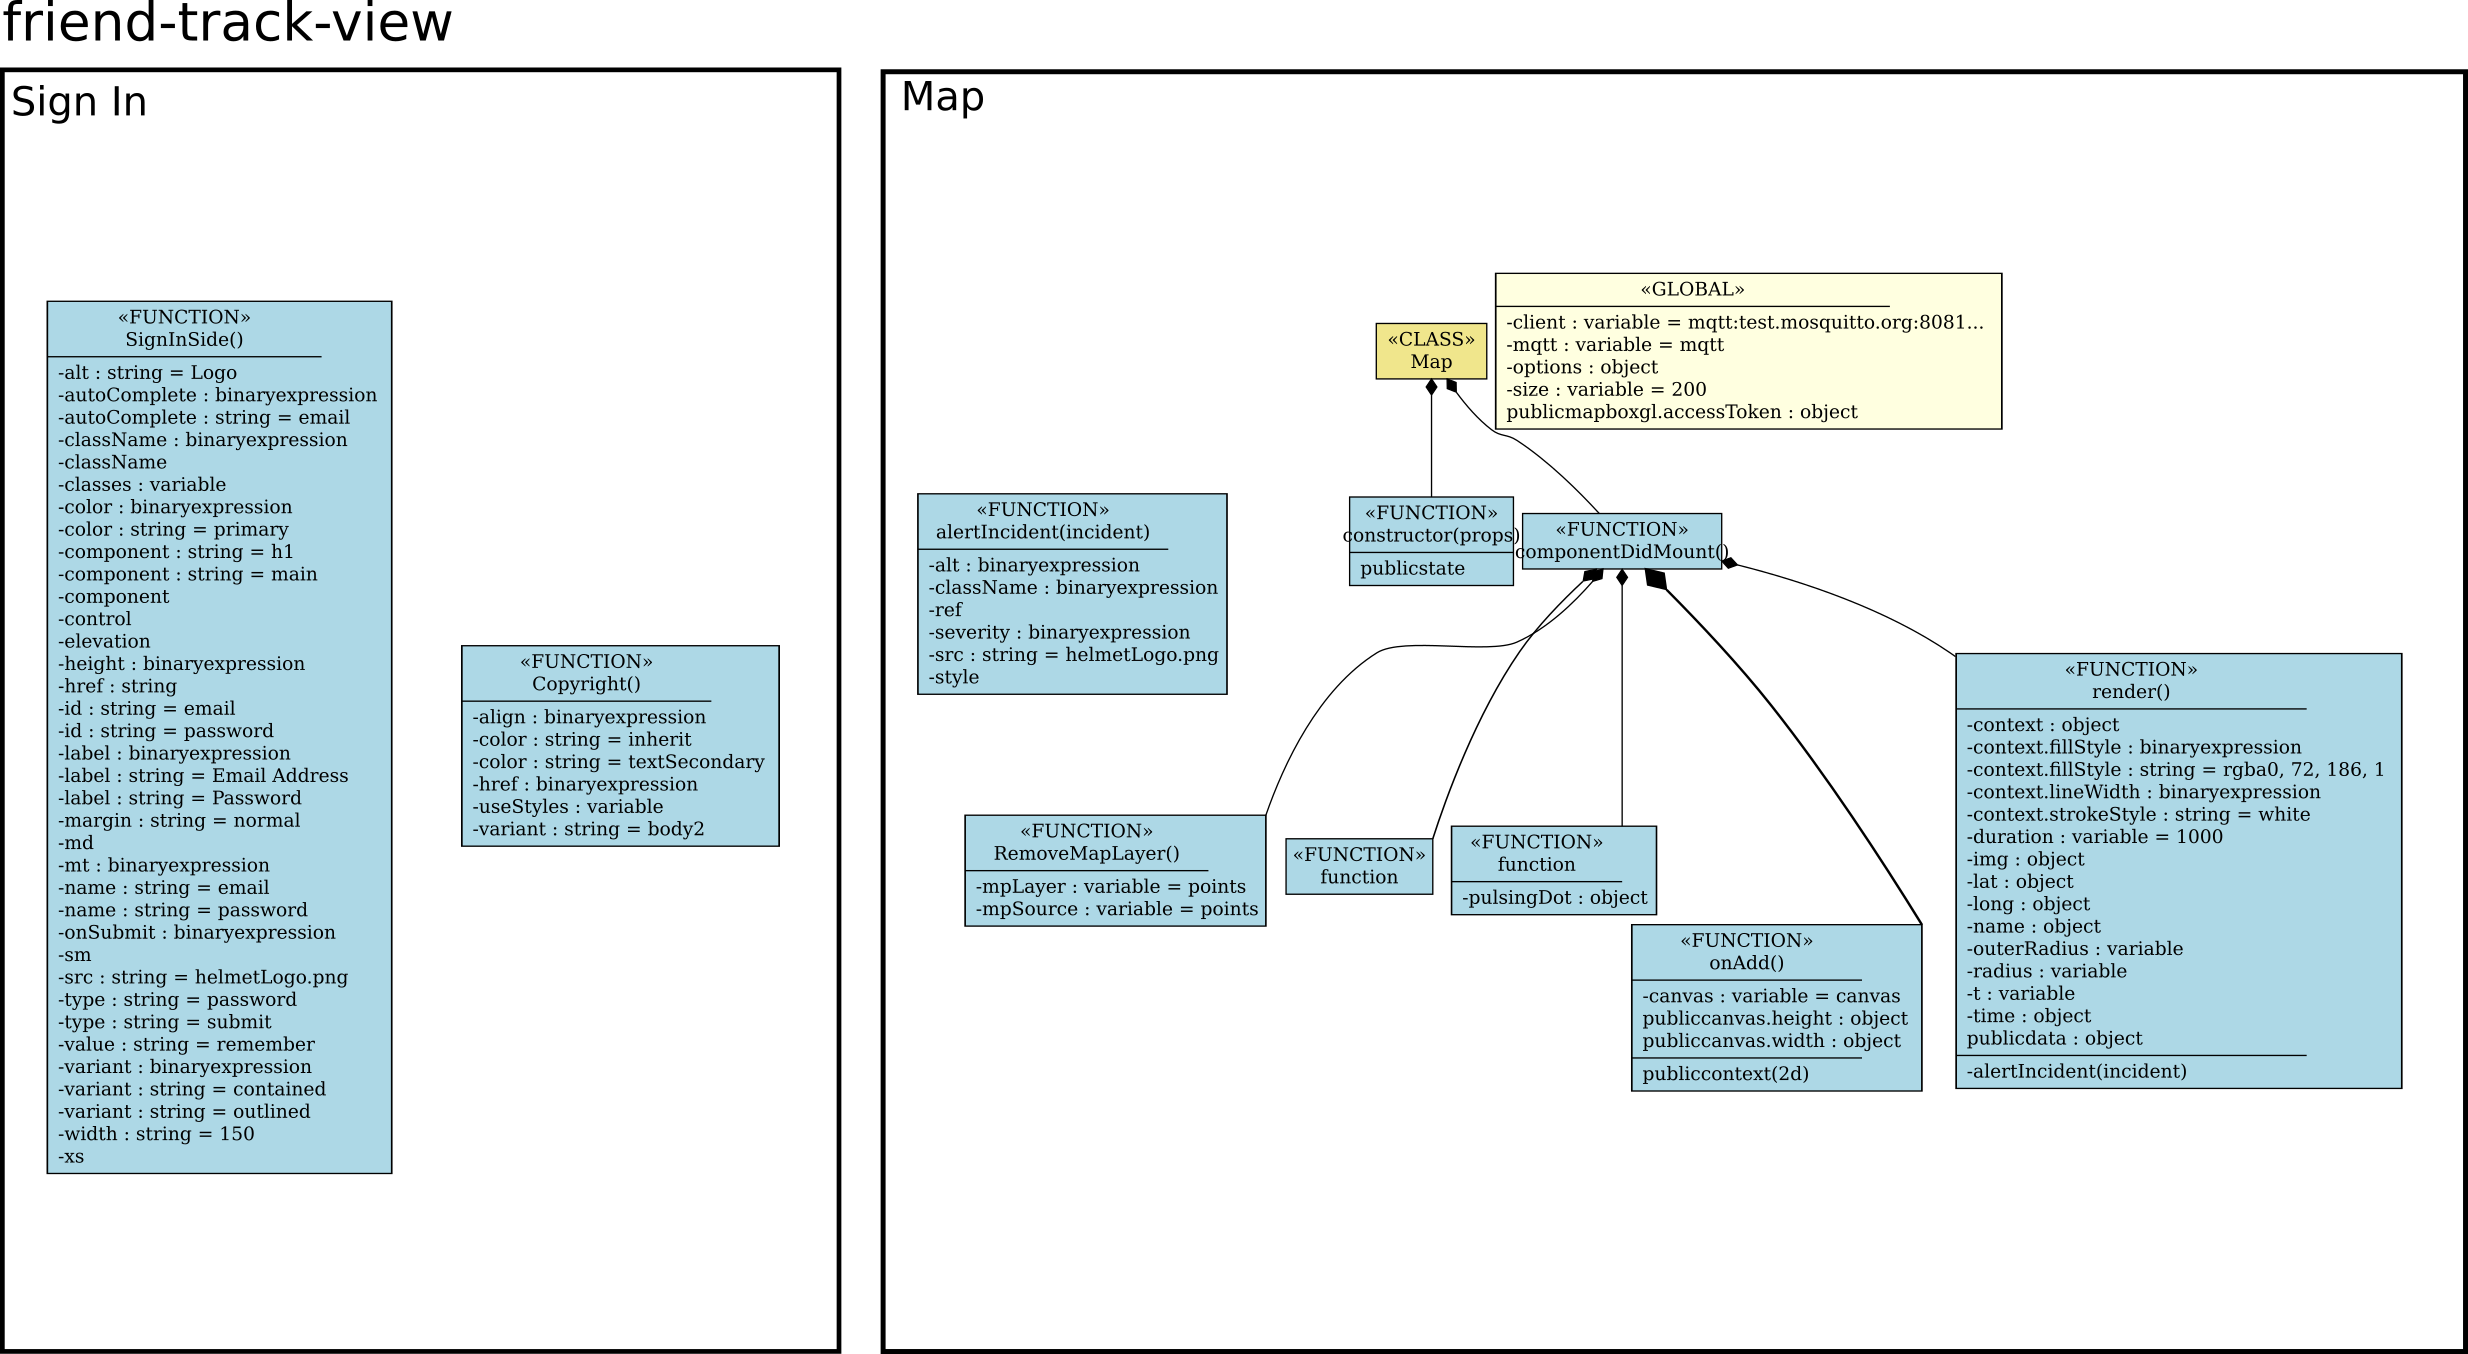
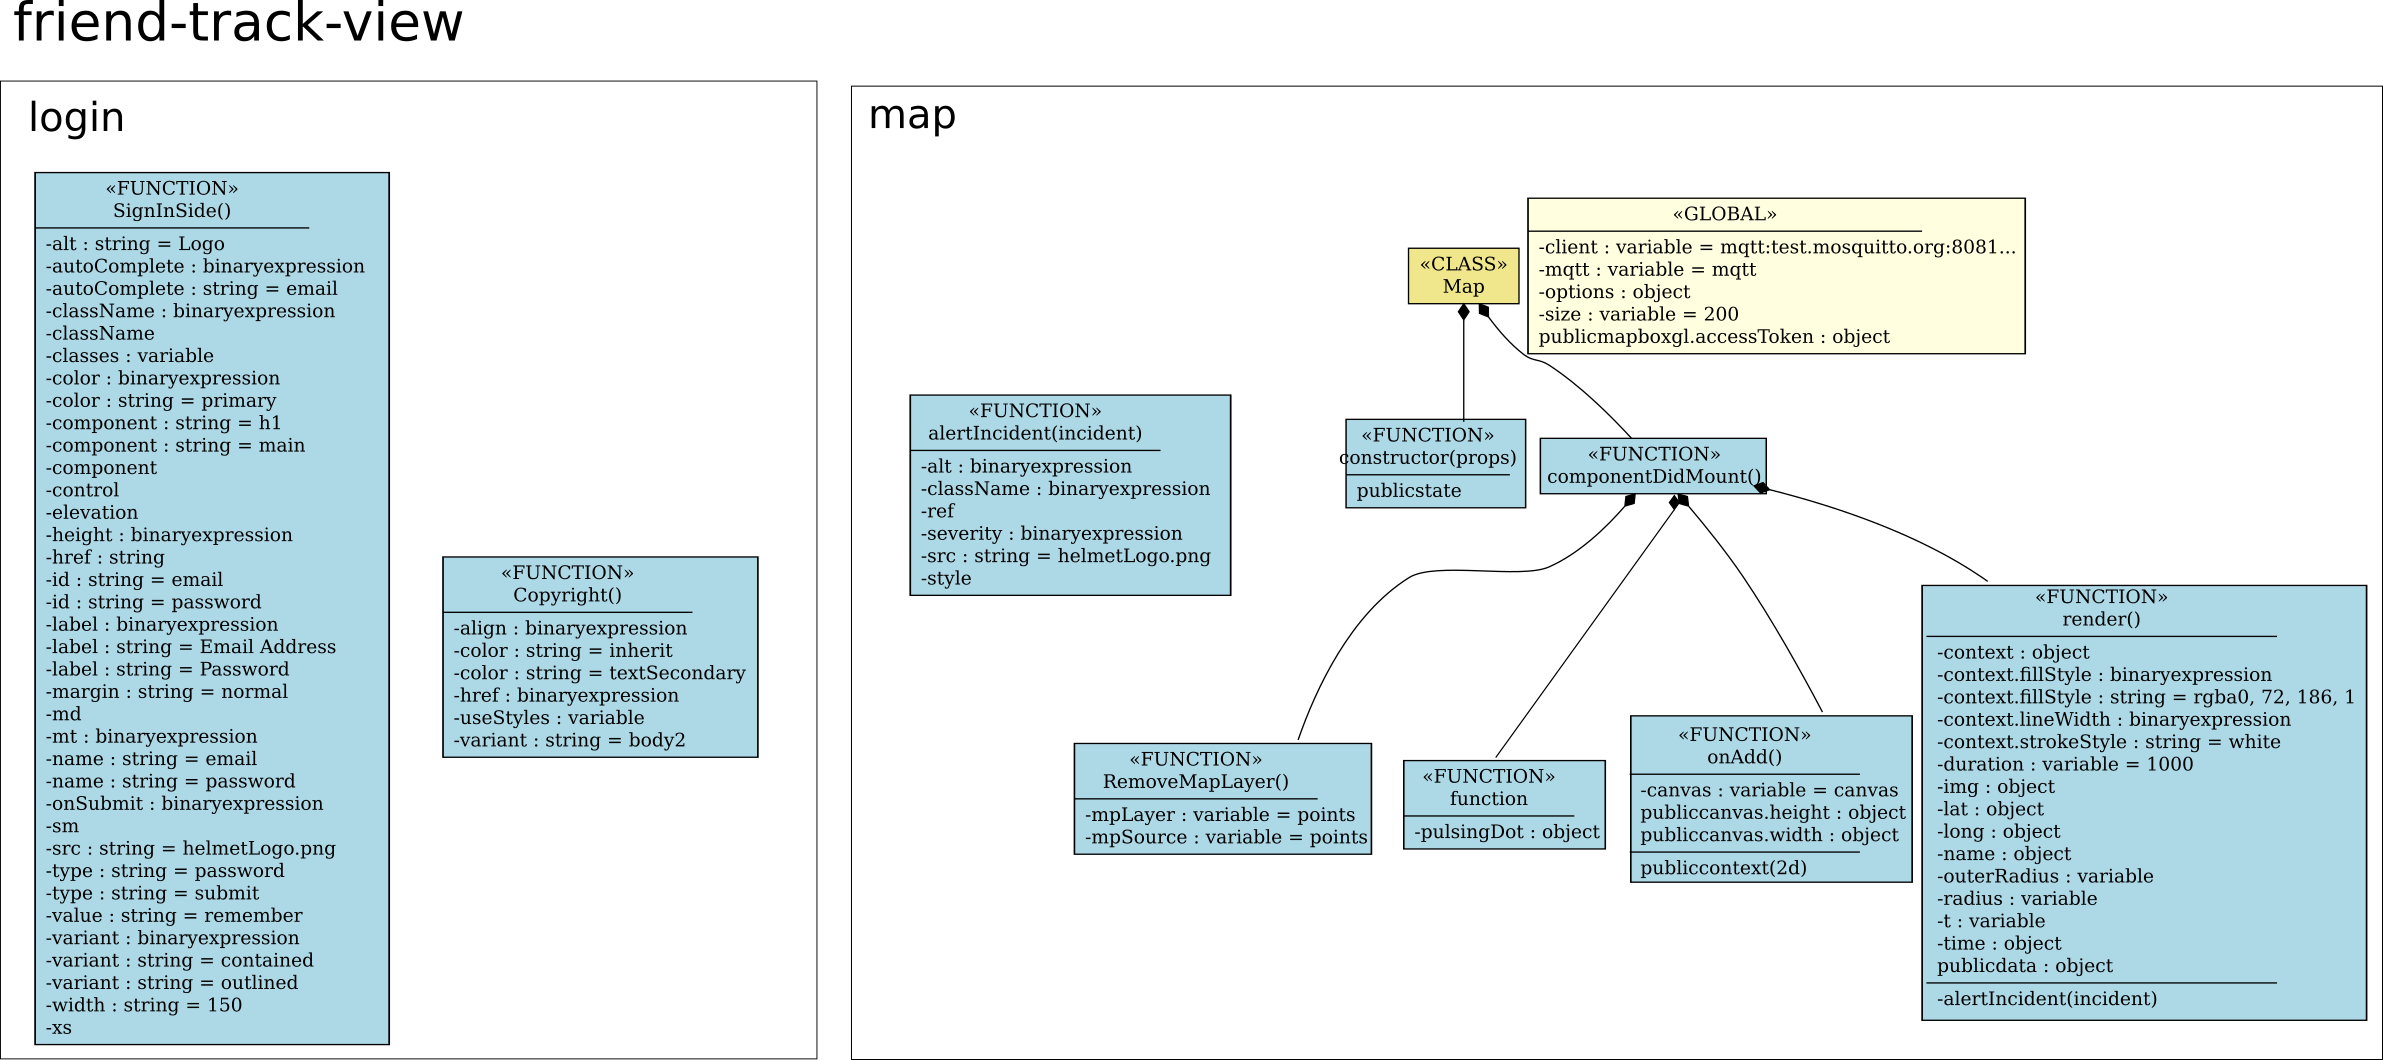
Added whole UML description

Changed region(s): [[0.0, 0.0, 1.0, 1.0], [0.59, 0.5292, 0.6211, 0.5604]]

diff --git a/portfolio/system-design.md b/portfolio/system-design.md
@@ -42,11 +42,17 @@ As is illustrated the MD5 Stick can be used to alert the emergency services to a
 
 #### Web application
 
-An examination of the web site makes best sense in relation to the activity of the system as a whole, this UML Activity State diagram illustrates this:
+A UML Class diagram of the friend-track-view web application shows some of object oriented design in work - although admittedly this was less well suited to an object oriented approach,being a relatively simple JavaScript React application, then the Java driven Processing desktop application: 
+
+![UML Class Diagram for friend-track-view](media/ftv_uml.png)
+
+Components _login_ and _map_ pages are logically separate and within the _map_ component we have a number of discrete elements dedicated which serve different functions e.g. _alertIncident_, _removeMapLayer_, etc.  
+
+The object oriented paradigm however potentially makes the most sense when we look at the activities of all three key sub-systems together, as illustrated in this UML Activity State diagram, which visualises the finished product (with gyroscope enabled - currently on the development plan):
 
 ![Start to end UML Activity Diagram](media/whole_activity_uml.svg)
 
-
+Within the diagram white represents the IoT device, yellow the web application and blue the desktop application.  Once the user starts tracking, the gyroscope immediately enters a loop whereby it looks for incidents.  If one is found then the user has an opportunity, using the MD5 Stick, to report a false-positive and reset the alarm; if the user does not cancel however then via MQTT an _update_ object is sent to both web applications (_emergency-services-view_ and _friend-track-view_ informing them of the incident) - this continues to loop until the incident is cancelled and there is power in the device.  If the gryoscope does not detect an incident then a location update is sent to _friend-track-view_ only an a periodic basis.  This continues until the user stops tracking at which point they have an option to upload their route data, again via MQTT, to the desktop application where it can be viewed in Processing.  A rigorous separation of data between these elements by using defined interfaces, e.g. object orientated design, is necessary to manage this system effectively and safely considering the importance that users will place in it.
 
 ### c. Requirements of key sub-systems (in the form of selected user stories)
 
